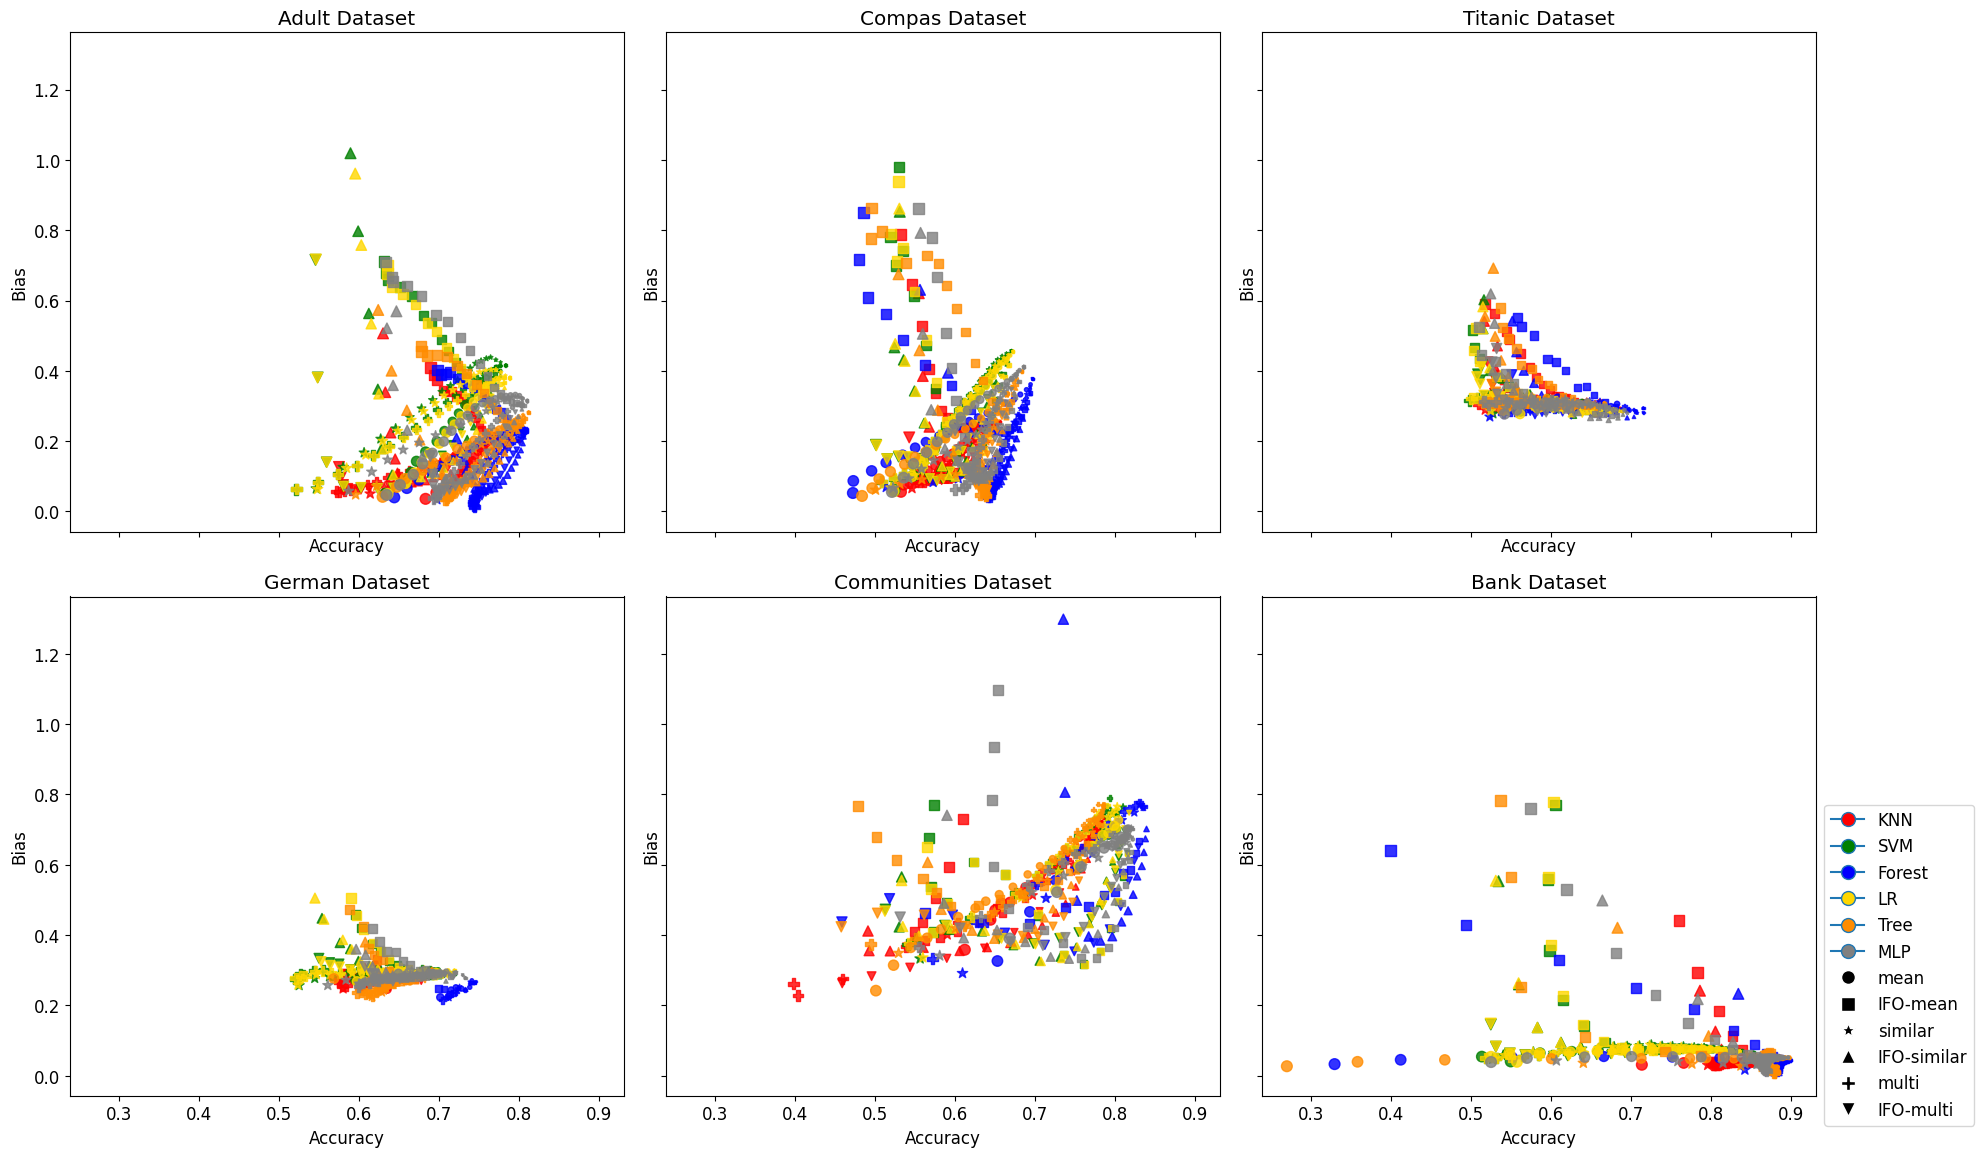
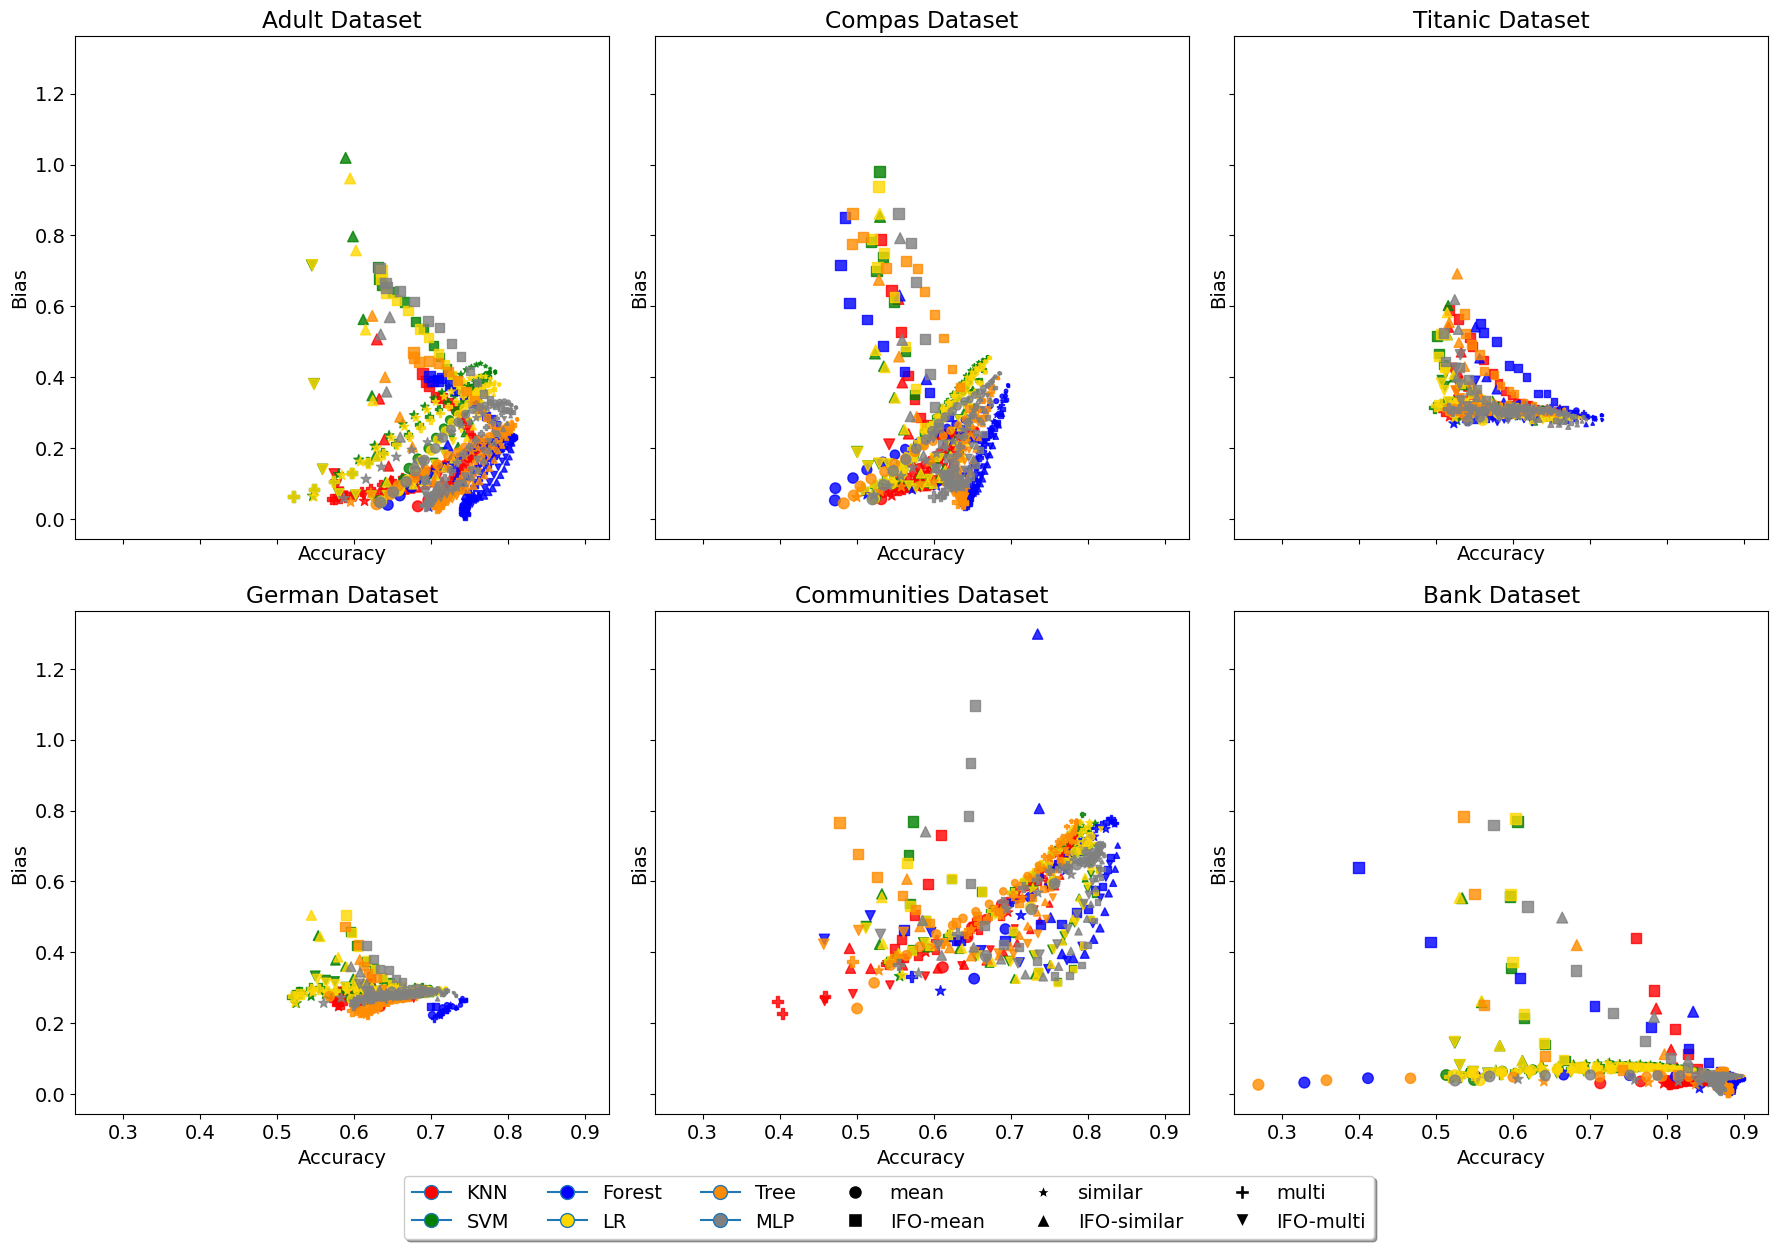
update pareto front plots

diff --git a/script_plot.py b/script_plot.py
@@ -856,7 +856,7 @@ def plot_func_pareto_front_all(file_name=None):
             # plot for multi_v2 method
             axes.scatter(plot_data_multi_v2[clf][5], plot_data_multi_v2[clf][4], c=clf_c, s=ratio_dot_size, marker=plot_markers[5], alpha=0.8)
 
-    fig, axes = plt.subplots(2, 3, sharex=True, sharey=True, figsize=(20, 12))
+    fig, axes = plt.subplots(2, 3, sharex=True, sharey=True, figsize=(18, 12))
 
     for i, dataset in enumerate(NAME_DATASETS):
         print("Pareto Front subplot for {}".format(dataset))
@@ -896,7 +896,7 @@ def plot_func_pareto_front_all(file_name=None):
     custom_legend.append(Line2D([0], [0], color='w', markersize=10, markerfacecolor="black", marker=plot_markers[3], label="IFO-similar"))
     custom_legend.append(Line2D([0], [0], color='w', markersize=10, markerfacecolor="black", marker=plot_markers[4], label="multi"))
     custom_legend.append(Line2D([0], [0], color='w', markersize=10, markerfacecolor="black", marker=plot_markers[5], label="IFO-multi"))
-    plt.legend(handles=custom_legend, bbox_to_anchor=(1, 0.6))
+    fig.legend(handles=custom_legend, bbox_to_anchor=(0.5, -0.05), loc="lower center", ncol=6, fancybox=True, shadow=True)
     fig.tight_layout()
     if file_name:
         plt.savefig(file_name, transparent=False, bbox_inches='tight', pad_inches=0.1)
@@ -1135,7 +1135,7 @@ def plot_all(data_folder, plot_folder, name):
             # plot_func_pareto_front(data, "Pareto Front ({})".format(name), os.path.join(plot_folder, "pareto_front_realacc_scaled.png"), y_scale="log", x_axis="realacc")
 
 if __name__=="__main__":
-    plt.rcParams.update({'font.size': 12})
+    plt.rcParams.update({'font.size': 14})
 
     if not os.path.exists("ratio_analysis_plots"):
         os.makedirs("ratio_analysis_plots")
